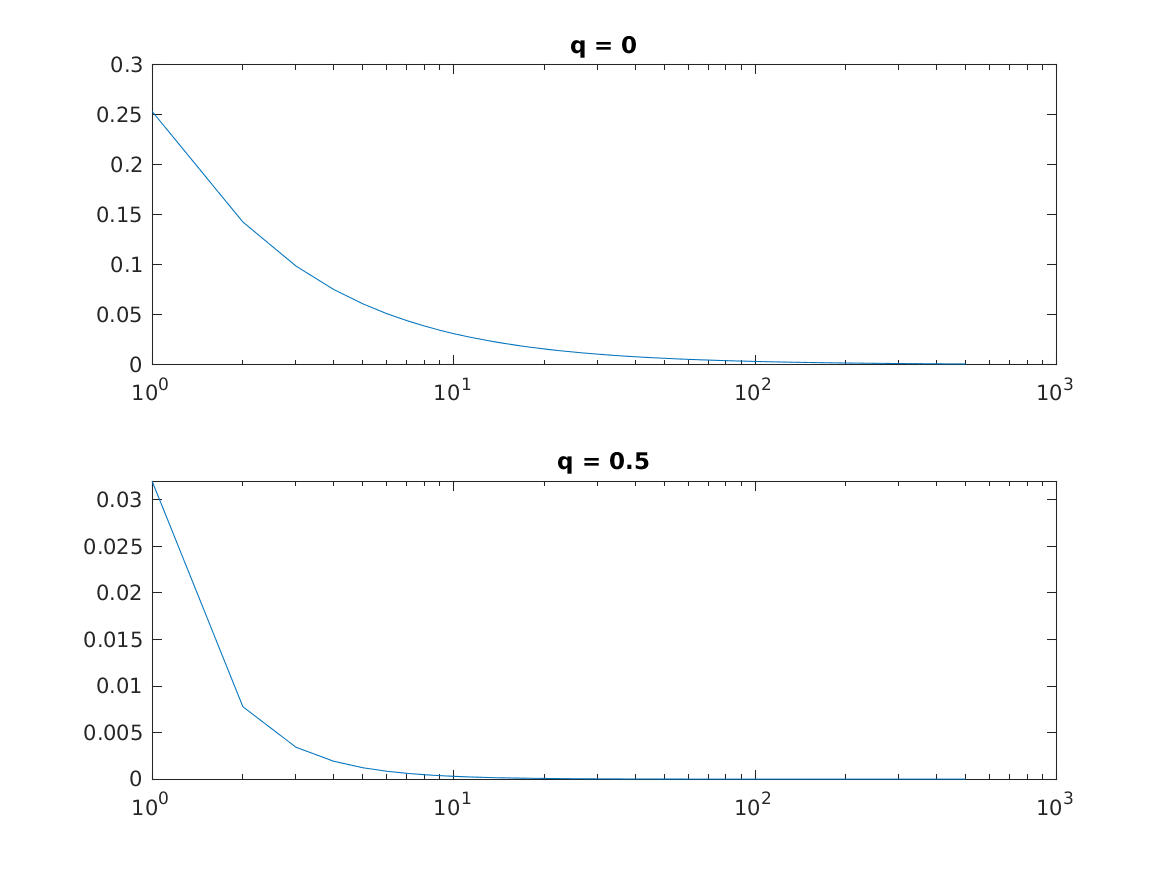
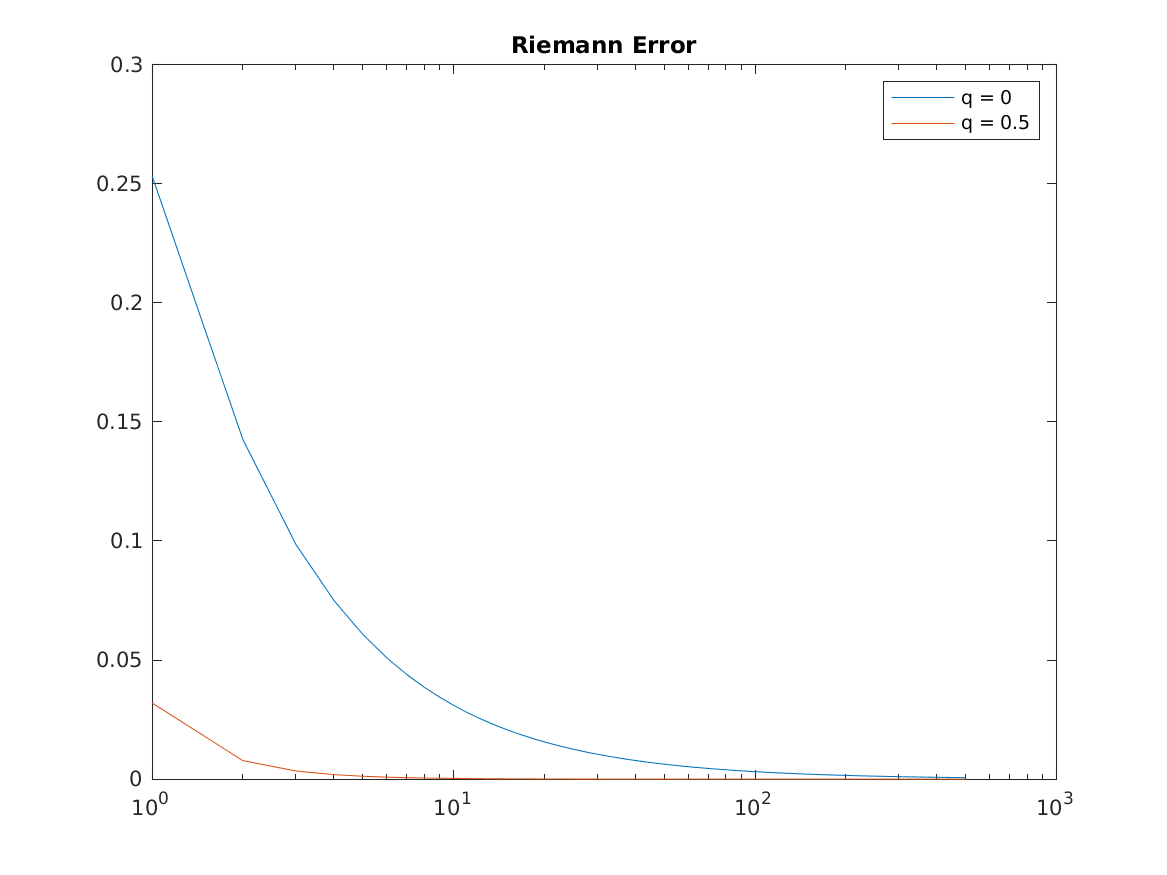
ueb4

diff --git a/ueb4/example.m b/ueb4/example.m
@@ -16,12 +16,13 @@ end
 errors2 = abs((0.5 * erf(1) * sqrt(pi)) - sums);
 
 figure1 = figure;
-subplot(2,1,1);
-semilogx(errors1);
-title('q = 0');
-subplot(2,1,2);
+%subplot(2,1,1);
+semilogx(errors1); hold on;
+title('Riemann Error');
+%subplot(2,1,2);
 semilogx(errors2);
-title('q = 0.5');
+%title();
+legend('q = 0', 'q = 0.5');
 saveas(figure1, 'riemann_error.png');
 
 % Beobachtung: Der Fehler ist für q = 0.5 geringer
